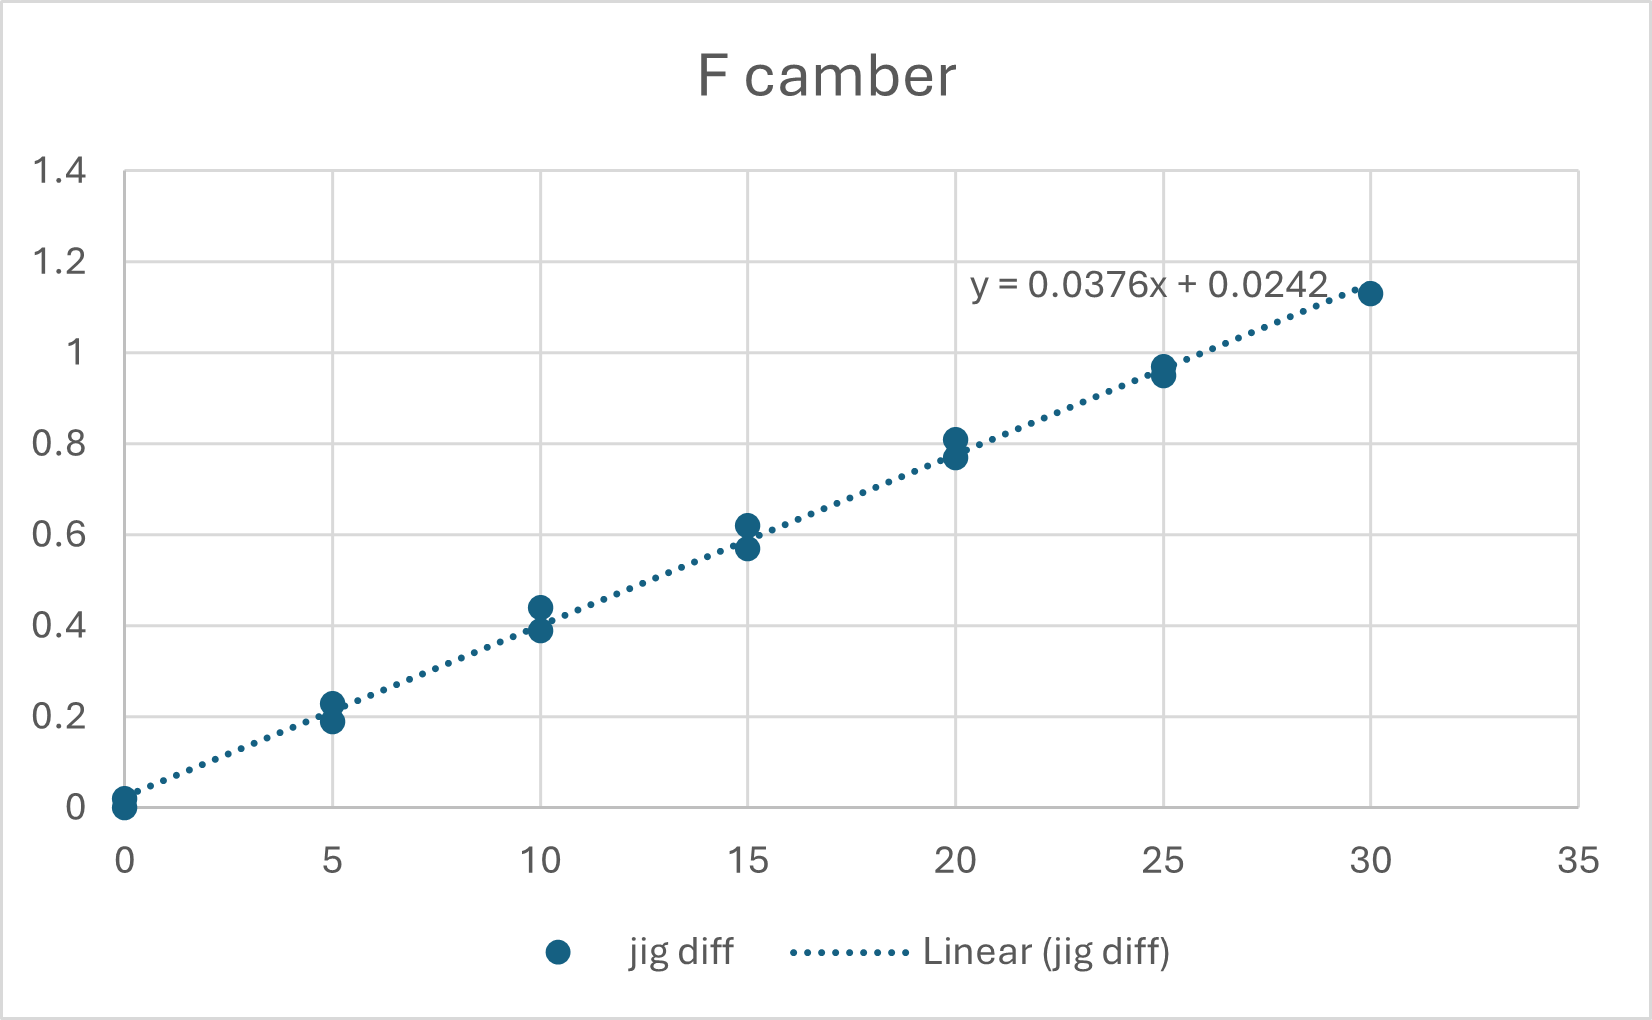
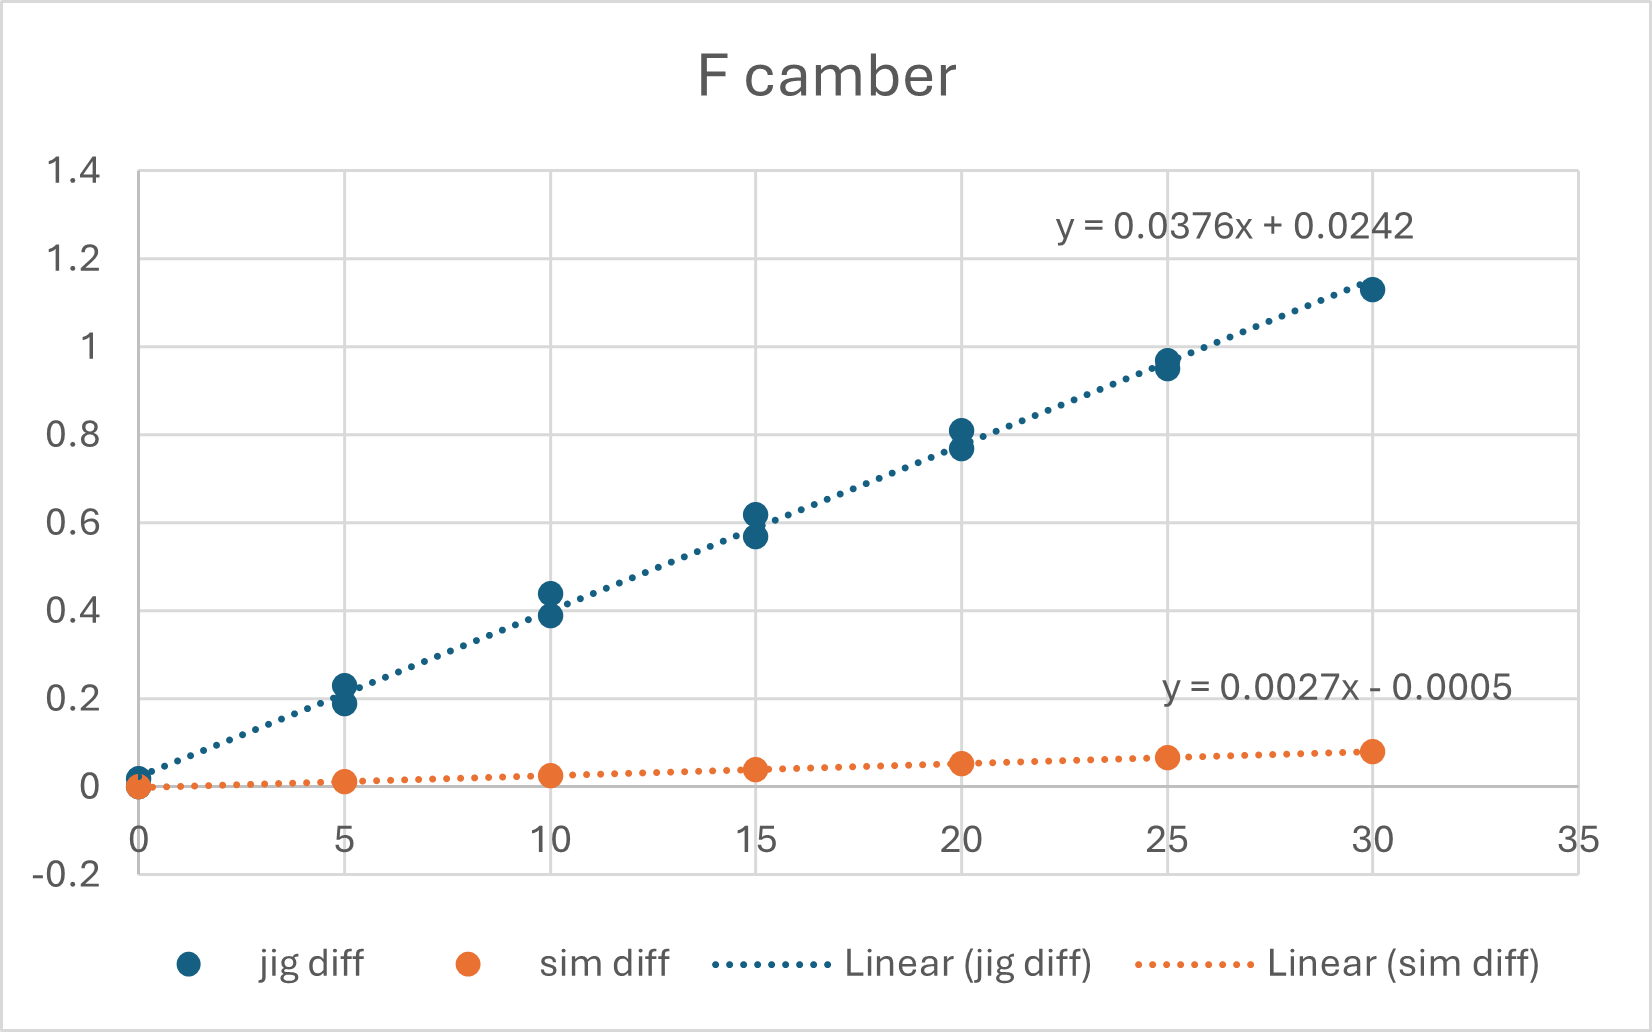
content update

diff --git a/index.html b/index.html
@@ -104,13 +104,19 @@
           designed and sent out to machine shops. At the time of writing, R26e has been assembled and basic functionality test 
           are performed. 
         </p>
-        <p>Shakedown of R26e was scheduled to take place in the second week of February, 2026. Due to unforeseen delays 
+        <p>
+          Shakedown of R26e was scheduled to take place in the second week of February, 2026. Due to unforeseen delays 
           during the CNY period, the actual shakedown was postponed to March 28th, 2026. The team 
           will continue to stress test and fine-tune the car until the competition in June 2026.
         </p>
-        <p>This report will pick up from the interim report and document the installation and validation of the various 
+        <p>
+          This report will pick up from the interim report and document the installation and validation of the various 
           components. The scope covers the installation of brake hydraulics, hub bearings and preloads, suspension toe and 
           camber stiffness, as well as documentation of manufacturing techniques.
+        </p>
+        <p>
+         Due to time constraints, it was not possible to validate the functionality of some components. The priority is to ensure 
+         reliability of the core vehicle systems, then move onto other systems that are not mission-critical.
         </p>
     </div>
     <br />
@@ -381,8 +387,14 @@
       <image-component style="margin-left: 200px; margin-right: 200px" tag="image" source="assets/stiffnesssetup.jpg"
           subtitle="Image 13: Stiffness testing on the welding table. In this case, the camber stiffness of the rear right suspension is being tested.">
         </image-component>
+      <br />
+      <image-component style="margin-left: 150px; margin-right: 150px" tag="image" source="assets/dialg.jpg"
+          subtitle="Image 13: Dial gauges measured the deflection of the jig.">
+        </image-component>
       <p>
-        The loads are applied in 5N increments, up to a maximum of 30N. There are several important measurements to be made:
+        The loads were applied in 5N increments, up to a maximum of 30N. Upon reaching 30N, the load was then gradually stepped down 
+        in 5N increments to observe the linearity and repeatability of deflection. There are several important measurements to be 
+        made:
       </p>
           <p style="margin-left: 50px; margin-right: 50px;">  
           1. The displacement of the jig itself. The 2 ends of the jig were probed with respect to the welding table, which 
@@ -404,8 +416,14 @@
           excessively.
           </p>
       <p>
-        The results are as follows:
+        A simulation was also setup to compare against the results from the real life testing. The simulation setup is similar 
+        to the quarter car FEA covered in the interim report, with the addition of the stiffness testing jig. Time steps were set up 
+        to mimic the loading during the real life testing. The results are as follows:
       </p>
+      <image-component style="margin-left: 50px; margin-right: 50px" tag="image" source="assets/stiffnessFEA.png"
+          subtitle="Image 13: Ansys FEA of stiffness test.">
+        </image-component>
+      <br />
       <image-component style="margin-left: 150px; margin-right: 150px" tag="image" source="assets/Ftoe.png"
           subtitle="Image 14: Front toe stiffness.">
       </image-component>
@@ -422,22 +440,19 @@
           subtitle="Image 17: Rear camber stiffness.">
       </image-component>
       <p>
-        These results were compared with simulation, where the same setup was recreated. The simulation results are as follows:
-      </p>
-      <p>
         It is immediately obvious that the deformation in simulation is much smaller than that of the real-life testing. This is 
         due to the compliance of various components that are otherwise modelled as solid in the FEA. Such components include 
         PTFE lining of the rod ends, wheel hub bearings with free play and even the monocoque itself. 
       </p>
       <p>
-        Perhaps more crucial than the degree of deformation is the linearity of it. Previous stiffness test managed to produce 
-        linear results when loading / unloading, but the gradient of the stiffness curve will defer drastically. This was 
-        attributed to hysteresis within the system, and the main reason for deploying additional dial gauges in the R26e test. 
-        With the additional ratchet straps in place and the position of the monocoque closely monitored, much more consistent 
-        stiffness graphs were obtained.
+        Perhaps more crucial than the degree of deformation is the linearity of it. Some deviation could be observed, but 
+        this can be attributed to hysteresis within the system. Care has been taken to ensure the stability of the experiment, with 
+        additional dial gauges and ratchet straps deployed and the position of the monocoque closely monitored. A more secure 
+        fixture can definitely be devised, but it will come at the cost of complexity and ease of installation.
       </p>
       <p>
-        The load of 30N on the jig represents the following operating conditions:
+        The load of 30N on the jig created 83.553Nm of moment onto the outboard assemblies. This corresponds to the following 
+        operating conditions:
       </p>
       <p style="margin-left: 50px; margin-right: 50px">
         Front suspension: XXG of cornering for camber stiffness and XXG of braking for toe stiffness
@@ -447,7 +462,7 @@
       </p>
       <p>
         This information can aid in identifying the ideal alignment for the suspension. Knowing the correlation between load and 
-        geometry change allows us to pre-emptively adjust the toe and camber, such that deviation from the ideal alignment can be 
+        geometry change allows us to preemptively adjust the toe and camber, such that deviation from the ideal alignment can be 
         minimized.
       </p>
         
